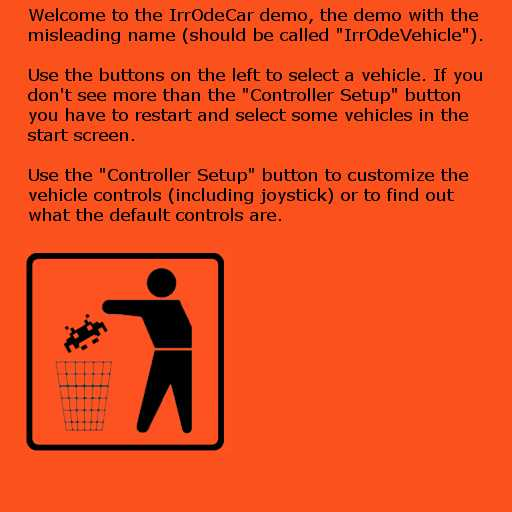
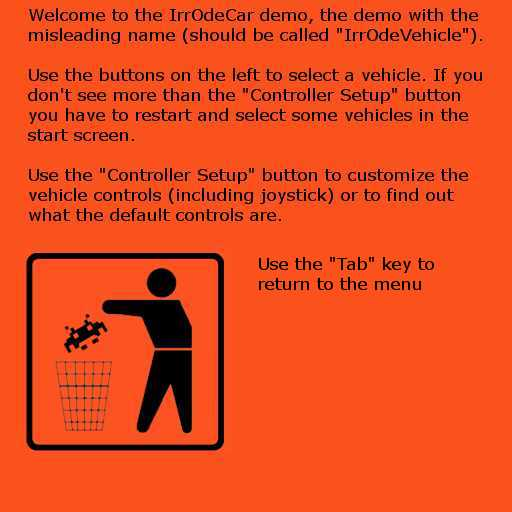
reflecting latest RoadCreator updates.

Changed region(s): [[0.5, 0.5, 0.875, 0.5938], [0.0938, 0.0312, 0.125, 0.0625]]

diff --git a/trunk/source/IrrOdeCar/RoadCreator/CConnection.cpp b/trunk/source/IrrOdeCar/RoadCreator/CConnection.cpp
@@ -245,7 +245,7 @@ void CConnection::recalcMeshBuffer() {
     case eBezier1: {
         //initialize the variables for the previous points
         vOld[0]=p1[0]; vOld[1]=p2[0];
-
+        
         //We start the calculation one step off so that no zero-sized
         //polygon is created at the start of the connection
         for (f32 f=1.0f/((f32)m_iSteps); f<1.0f; f+=1.0f/((f32)m_iSteps)) {
@@ -278,6 +278,11 @@ void CConnection::recalcMeshBuffer() {
         //to insert the helppoint for the Bezier2 calculation
         p1[2]=p1[1]; p1[1]=m_vHelpPoints[0];
         p2[2]=p2[1]; p2[1]=m_vHelpPoints[2];
+        
+        for (u32 i=0; i<3; i++) {
+          m_vDraw[i  ]=p1[i];
+          m_vDraw[i+3]=p2[i];
+        }
 
         //We start the calculation one step off so that no zero-sized
         //polygon is created at the start of the connection
@@ -311,6 +316,11 @@ void CConnection::recalcMeshBuffer() {
         //to insert the 2 helppoints for the Bezier3 calculation
         p1[3]=p1[1]; p1[1]=m_vHelpPoints[0]; p1[2]=m_vHelpPoints[1];
         p2[3]=p2[1]; p2[1]=m_vHelpPoints[2]; p2[2]=m_vHelpPoints[3];
+        
+        for (u32 i=0; i<4; i++) {
+          m_vDraw[i  ]=p1[i];
+          m_vDraw[i+4]=p2[i];
+        }
 
         //We start the calculation one step off so that no zero-sized
         //polygon is created at the start of the connection
@@ -477,8 +487,8 @@ void CConnection::calculateHelpPoints() {
             }
           }
 
-        m_vHelpPoints[2]=vMinDist[0];
-        m_vHelpPoints[0]=vMinDist[1];
+        m_vHelpPoints[2]=cLine[1].start+(m_fHpOff[0]*(vMinDist[0]-cLine[1].start));
+        m_vHelpPoints[0]=cLine[0].start+(m_fHpOff[2]*(vMinDist[1]-cLine[0].start));
       }
       else {
         core::vector3df vDir=v2[1]-v[2],
@@ -514,9 +524,11 @@ void CConnection::calculateHelpPoints() {
         m_pDrv->draw3DLine(v[0],vMinDist[0],video::SColor(0xFF,0,0xFF,0));
         m_pDrv->draw3DLine(v[1],vMinDist[1],video::SColor(0xFF,0,0xFF,0));
 
-        m_vHelpPoints[0]=vMinDist[0];
-        m_vHelpPoints[2]=vMinDist[1];
+        //m_vHelpPoints[0]=vMinDist[0];
+        //m_vHelpPoints[2]=vMinDist[1];
 
+        m_vHelpPoints[0]=cLine[1].start+(m_fHpOff[0]*(vMinDist[0]-cLine[1].start));
+        m_vHelpPoints[2]=cLine[0].start+(m_fHpOff[2]*(vMinDist[1]-cLine[0].start));
       }
 
       break;
@@ -528,19 +540,19 @@ void CConnection::calculateHelpPoints() {
 
         vDir.normalize();
 
-        m_vHelpPoints[0]=v[0]-fLen*vDir;
-        m_vHelpPoints[2]=v[1]-fLen*vDir;
+        m_vHelpPoints[0]=v[0]-fLen*m_fHpOff[0]*vDir;
+        m_vHelpPoints[2]=v[1]-fLen*m_fHpOff[2]*vDir;
 
         vDir=v2[1]-v[2];
         vDir.normalize();
 
         if (m_bFlipConnection) {
-          m_vHelpPoints[1]=v[3]-fLen*vDir;
-          m_vHelpPoints[3]=v[2]-fLen*vDir;
+          m_vHelpPoints[1]=v[3]-fLen*m_fHpOff[1]*vDir;
+          m_vHelpPoints[3]=v[2]-fLen*m_fHpOff[3]*vDir;
         }
         else {
-          m_vHelpPoints[1]=v[2]-fLen*vDir;
-          m_vHelpPoints[3]=v[3]-fLen*vDir;
+          m_vHelpPoints[1]=v[2]-fLen*m_fHpOff[1]*vDir;
+          m_vHelpPoints[3]=v[3]-fLen*m_fHpOff[3]*vDir;
         }
       }
       break;
@@ -587,7 +599,7 @@ core::vector3df CConnection::getBezier3(core::vector3df p[], f32 fStep) {
  * Constructor
  * @param pDrv used Irrlicht videodriver
  */
-CConnection::CConnection(video::IVideoDriver *pDrv) {
+CConnection::CConnection(video::IVideoDriver *pDrv, CTextureParameters *pInitTexture) {
   //initialize the segments
   m_pSegment1=NULL;
   m_pSegment2=NULL;
@@ -629,6 +641,9 @@ CConnection::CConnection(video::IVideoDriver *pDrv) {
   }
 
   m_fRoadWidth=0.0f;
+  
+  for (u32 i=0; i<4; i++) m_fHpOff[i]=1.0f;
+  if (pInitTexture) for (u32 i=0; i<4; i++) pInitTexture[i].copyTo(m_pTexParams[i]);
 }
 
 /**
@@ -714,6 +729,35 @@ bool CConnection::getFlipVertices  () { return m_bFlipVertices  ; }
 
 
 void CConnection::render() {
+  switch (m_eType) {
+    case eBezier1: break;
+    case eBezier2: {
+        video::SMaterial cMat;
+        cMat.Lighting=false;
+        m_pDrv->setMaterial(cMat);
+        
+        if (m_bSelected)
+          for (u32 i=0; i<2; i++) {
+            m_pDrv->draw3DLine(m_vDraw[i  ],m_vDraw[i+1],video::SColor(0xFF,0xFF,0xFF,0xFF));
+            m_pDrv->draw3DLine(m_vDraw[i+3],m_vDraw[i+4],video::SColor(0xFF,0xFF,0xFF,0xFF));
+          }
+      }
+      break;
+      
+    case eBezier3: {
+        video::SMaterial cMat;
+        cMat.Lighting=false;
+        m_pDrv->setMaterial(cMat);
+        
+        if (m_bSelected)
+          for (u32 i=0; i<3; i++) {
+            m_pDrv->draw3DLine(m_vDraw[i  ],m_vDraw[i+1],video::SColor(0xFF,0xFF,0xFF,0xFF));
+            m_pDrv->draw3DLine(m_vDraw[i+4],m_vDraw[i+5],video::SColor(0xFF,0xFF,0xFF,0xFF));
+          }
+      }
+      break;
+  }
+  
   //Render the meshbuffers
   for (u32 i=0; i<4; i++)
     if (m_pMeshBuffer[i]!=NULL) {
@@ -798,6 +842,11 @@ void CConnection::save(io::IAttributes *out) {
     core::stringc s="HelpPoint"; s+=i;
     out->addVector3d(s.c_str(),m_vHelpPoints[i]);
   }
+  
+  for (u32 i=0; i<4; i++) {
+    core::stringc s="HpOffset"; s+=i;
+    out->addFloat(s.c_str(),m_fHpOff[i]);
+  }
 }
 
 /**
@@ -819,6 +868,11 @@ void CConnection::load(io::IAttributes *in) {
   for (u32 i=0; i<4; i++) {
     core::stringc s="HelpPoint"; s+=i;
     m_vHelpPoints[i]=in->getAttributeAsVector3d(s.c_str());
+  }
+  
+  for (u32 i=0; i<4; i++) {
+    core::stringc s="HpOffset"; s+=i;
+    if (in->existsAttribute(s.c_str())) m_fHpOff[i]=in->getAttributeAsFloat(s.c_str());
   }
 }
 

diff --git a/trunk/include/IrrOdeCar/RoadCreator/CConnection.h b/trunk/include/IrrOdeCar/RoadCreator/CConnection.h
@@ -42,7 +42,8 @@ class CConnection : public INotification, public IRoadPart {
     s32 m_iSelectedPoint;   /**<! number of the selected point (for editing) */
     f32 m_fTex,             /**<! texture calculation buffer */
         m_fOffset,          /**<! offset (i.e. height) of the connection */
-        m_fRoadWidth;       /**<! highest road width of this connectior (for texture calculations) */
+        m_fRoadWidth,       /**<! highest road width of this connectior (for texture calculations) */
+        m_fHpOff[4];
 
     bool m_bFlipConnection, /**<! flip one of the connections. Needed from time to time to connect correctly */
          m_bFlipVertices,   /**<! flip the vertices. Sometimes it happens that we see the backface */
@@ -50,7 +51,8 @@ class CConnection : public INotification, public IRoadPart {
 
     CTextureParameters *m_pTexParams[4];  /**<! the texture parameters for the four available sides */
 
-    core::vector3df m_vHelpPoints[4]; /**<! the four help points for Bezier3, Bezier2 uses Nr. 0 and 2, Bezier1 uses none */
+    core::vector3df m_vHelpPoints[4], /**<! the four help points for Bezier3, Bezier2 uses Nr. 0 and 2, Bezier1 uses none */
+                    m_vDraw[8];
     core::aabbox3df m_cBox;
 
     video::IVideoDriver *m_pDrv;    /**<! the Irrlicht video driver */
@@ -130,8 +132,9 @@ class CConnection : public INotification, public IRoadPart {
     /**
      * Constructor
      * @param pDrv used Irrlicht videodriver
+     * @param pInitTexture initial texture paramters
      */
-    CConnection(video::IVideoDriver *pDrv);
+    CConnection(video::IVideoDriver *pDrv, CTextureParameters *pInitTexture);
     
     /**
      * The destructor
@@ -245,6 +248,16 @@ class CConnection : public INotification, public IRoadPart {
      * @return the meshbuffer
      */
     virtual scene::IMeshBuffer *getMeshBuffer(u32 i);
+    
+    void setHpOffset(u32 iHp, f32 fOff) {
+      if (iHp<4) {
+        m_fHpOff[iHp]=fOff;
+        calculateHelpPoints();
+        update();
+      }
+    }
+    
+    f32 getHpOffset(u32 iHp) { return iHp<4?m_fHpOff[iHp]:0.0f; }
 };
 
 #endif

diff --git a/trunk/source/IrrOdeCar/RoadCreator/CSegment.cpp b/trunk/source/IrrOdeCar/RoadCreator/CSegment.cpp
@@ -10,7 +10,7 @@ using namespace irr;
  * @param vPosition position of the segment
  * @param pDrv the Irrlicht video driver
  */
-CSegment::CSegment(core::stringc sName, core::vector3df vPosition, video::IVideoDriver *pDrv) {
+CSegment::CSegment(core::stringc sName, core::vector3df vPosition, video::IVideoDriver *pDrv, CTextureParameters *pInitParam) {
   //Default values: width: 10, length: 25, direction: (0,0,1), normal: (0,1,0), base offset: 10, level base: true
   m_fWidth=10.0f;
   m_fLength=25.0f;
@@ -26,6 +26,7 @@ CSegment::CSegment(core::stringc sName, core::vector3df vPosition, video::IVideo
   for (u32 i=0; i<6; i++) {
     m_pBuffer[i]=NULL;
     m_pTexParams[i]=new CTextureParameters();
+    if (pInitParam!=NULL) pInitParam[i].copyTo(m_pTexParams[i]);
   }
 
   recalcMeshBuffer();
@@ -56,6 +57,9 @@ CSegment::CSegment(video::IVideoDriver *pDrv) {
   recalcMeshBuffer();
 }
 
+/**
+ * The destructor
+ */
 CSegment::~CSegment() {
   core::list<INotification *>::Iterator it;
   for (it=m_lNotify.begin(); it!=m_lNotify.end(); it++) {
@@ -68,9 +72,6 @@ CSegment::~CSegment() {
   }
 }
 
-/**
- * The destructor
- */
 void CSegment::attributeChanged() {
   recalcMeshBuffer();
 
@@ -352,6 +353,7 @@ void CSegment::delNotify(INotification *p) {
 
 void CSegment::update() {
   recalcMeshBuffer();
+  attributeChanged();
 }
 
 CTextureParameters *CSegment::getTextureParameters(u32 i) {

diff --git a/trunk/include/IrrOdeCar/RoadCreator/CSegment.h b/trunk/include/IrrOdeCar/RoadCreator/CSegment.h
@@ -75,8 +75,9 @@ class CSegment : public IRoadPart {
      * @param sName name of the segment
      * @param vPosition position of the segment
      * @param pDrv the Irrlicht video driver
+     * @param pInitParam the initial texture parameters
      */
-    CSegment(core::stringc sName, core::vector3df vPosition, video::IVideoDriver *pDrv);
+    CSegment(core::stringc sName, core::vector3df vPosition, video::IVideoDriver *pDrv, CTextureParameters *pInitParam);
     /**
      * The construtor. This one is used by the road loading routine
      * @param pDrv the Irrlicht video driver

diff --git a/trunk/source/IrrOdeCar/RoadCreator/CRoadLoader.cpp b/trunk/source/IrrOdeCar/RoadCreator/CRoadLoader.cpp
@@ -90,7 +90,7 @@ bool CRoadLoader::loadRoad(const core::stringc sName) {
             if (iState==2) {
               io::IAttributes *pAttr=m_pDevice->getFileSystem()->createEmptyAttributes();
               pAttr->read(pReader,true);
-              pCon=new CConnection(m_pDevice->getVideoDriver());
+              pCon=new CConnection(m_pDevice->getVideoDriver(),NULL);
               iConTex=0;
               pCon->load(pAttr);
 

diff --git a/trunk/include/IrrOdeCar/RoadCreator/CTextureParameters.h b/trunk/include/IrrOdeCar/RoadCreator/CTextureParameters.h
@@ -139,6 +139,14 @@ class CTextureParameters {
       
       m_bStretch=in->getAttributeAsBool("Stretch");
     }
+    
+    void copyTo(CTextureParameters *pDest) {
+      pDest->setTexture(m_sTexture);
+      pDest->setRotate (m_iRotate );
+      pDest->setOffset (m_fOffset );
+      pDest->setScale  (m_fScale  );
+      pDest->setStretch(m_bStretch);
+    }
 };
 
 #endif
